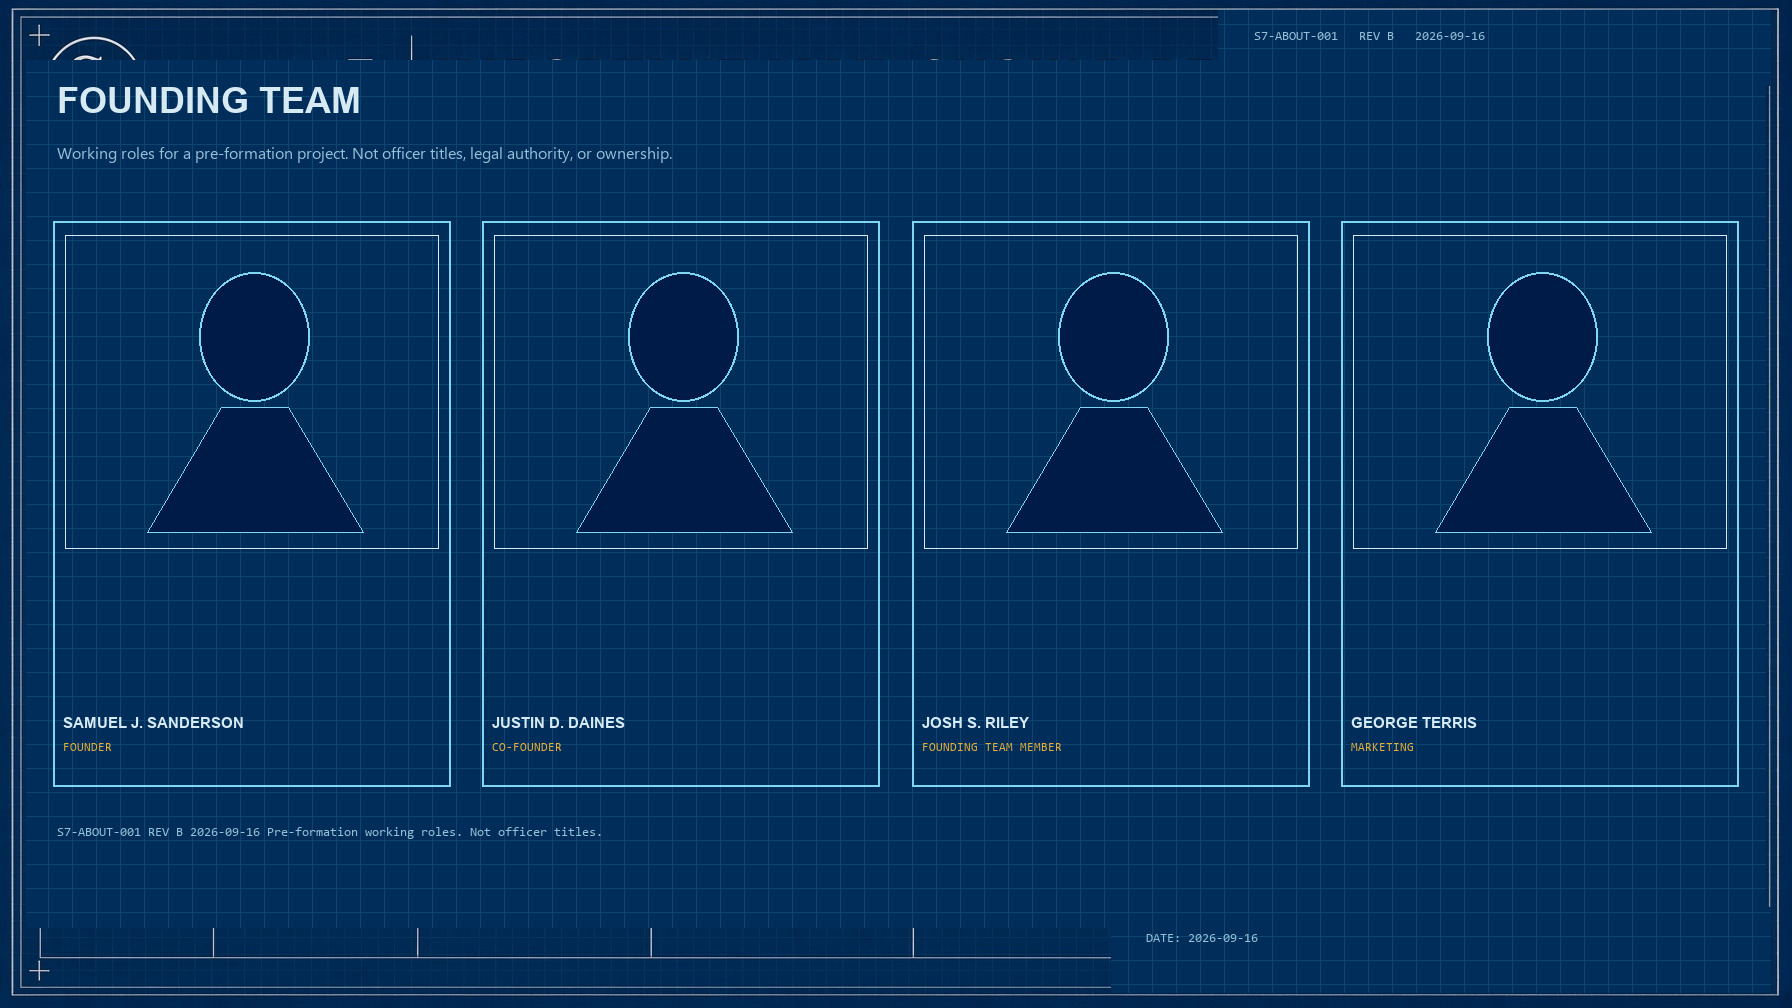
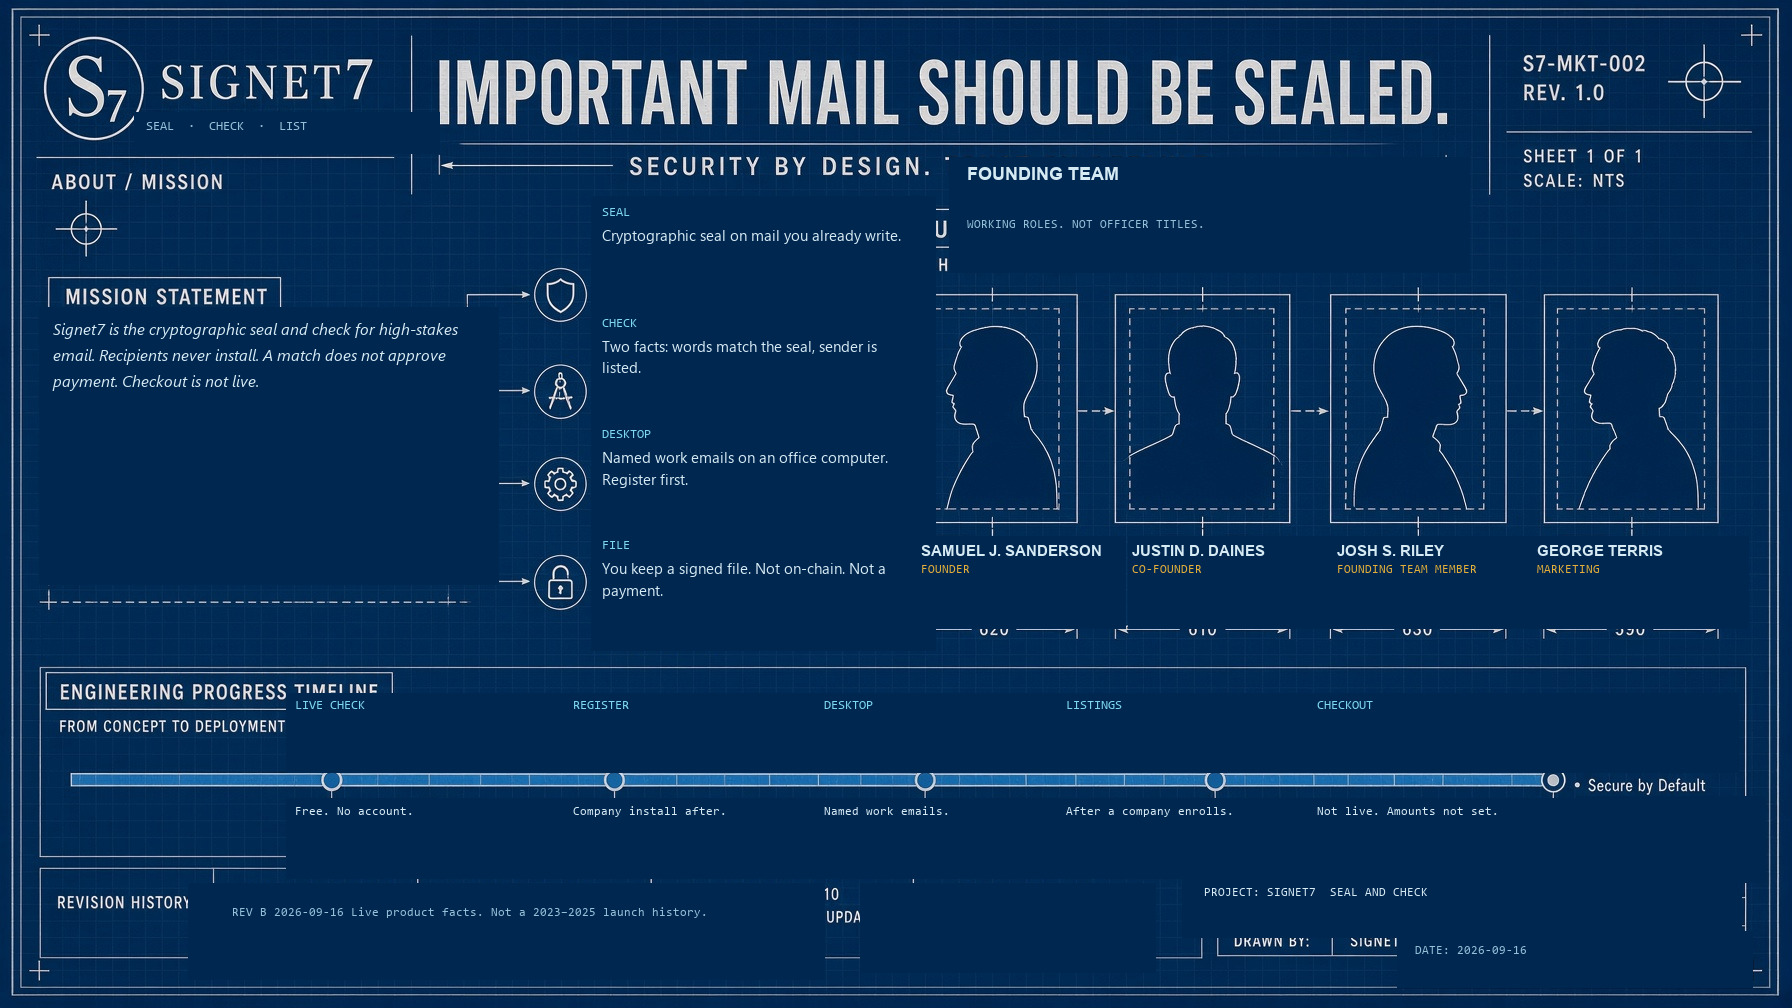
fix(site): edit original About CAD photo — keep layout, insert Signet7 roster (#177)
Do not redraw the sheet. Keep silhouettes, headline, icons, timeline bar.
Replace invented names/roles and encryption copy with live team and product facts.

diff --git a/about.html b/about.html
@@ -69,7 +69,7 @@
  </div>
  </section>
 <figure class="blueprint-sheet">
-<img class="blueprint-plate" src="assets/blueprint/about.jpg?v=20260916d" width="1792" height="1008" alt="Signet7 founding team drawing: Samuel J. Sanderson, Founder; Justin D. Daines, CO-Founder; Josh S. Riley, Founding Team Member; George Terris, marketing.">
+<img class="blueprint-plate" src="assets/blueprint/about.jpg?v=20260916e" width="1792" height="1008" alt="Signet7 founding team drawing: Samuel J. Sanderson, Founder; Justin D. Daines, CO-Founder; Josh S. Riley, Founding Team Member; George Terris, marketing.">
 <figcaption>About drawing. Signet7 is the cryptographic seal and check for high-stakes email.</figcaption>
 </figure>
 
